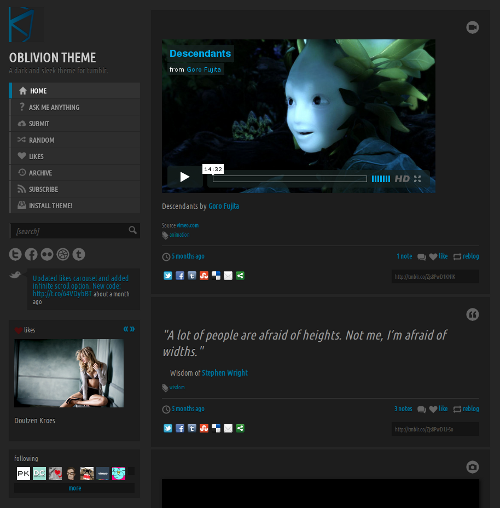
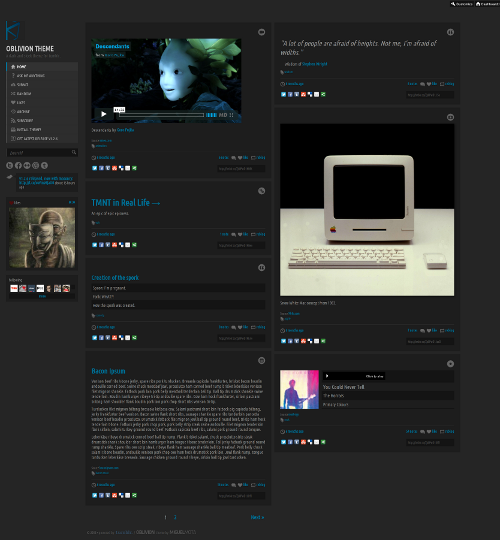
fixed masonry

diff --git a/portfolio/_posts/2011-05-01-mrgpropertiesinc.html b/portfolio/_posts/2011-05-01-mrgpropertiesinc.html
@@ -15,15 +15,15 @@ project-url: melendez.github.com
 project-thumb: mrgpropertiesinc-thumb.png
 ---
 <h1 class='title'><span class='icon icon-suitcase-32 icon-title icon-no-hover'></span> {% include title.html %}</h1>
-<div class='work'>
-	<div class='project-description content-item'>
-		<p>Logo and website design for MRG Properties Inc., <em>a real estate business</em>. Client wanted a simple, clean and user friendly website and a logo that says what they're all about. The home on the logo also represents the letter M for MRG [Melendez Realty Group]. Used the <a href='http://new.myfonts.com/fonts/linotype/trajan/'>Trajan</a> font family.</p>
-		<div class='project-description-footer'>
-			<a class='site-link' href='http://{{ page.project-url }}' rel='external'><span class='icon icon-link-16'></span> {{ page.project-url }}</a> 
-			<time class='project-date'><span class='icon icon-calendar-check-16 icon-no-hover'></span> {{ page.date | date:"%B %Y" }}</time>
-			<div class='clear'></div>
-		</div>
+<div class='project-description content-item'>
+	<p>Logo and website design for MRG Properties Inc., <em>a real estate business</em>. Client wanted a simple, clean and user friendly website and a logo that says what they're all about. The home on the logo also represents the letter M for MRG [Melendez Realty Group]. Used the <a href='http://new.myfonts.com/fonts/linotype/trajan/'>Trajan</a> font family.</p>
+	<div class='project-description-footer'>
+		<a class='site-link' href='http://{{ page.project-url }}' rel='external'><span class='icon icon-link-16'></span> {{ page.project-url }}</a> 
+		<time class='project-date'><span class='icon icon-calendar-check-16 icon-no-hover'></span> {{ page.date | date:"%B %Y" }}</time>
+		<div class='clear'></div>
 	</div>
+</div>
+<div class='project-images-wrap'>
 	<div class='project-image content-item'><a class='fancybox' rel='mrgpropertiesinc' href='/assets/portfolio/mrgpropertiesinc/mrgpropertiesinc-logo.png' title='Logo'><img src='/assets/portfolio/mrgpropertiesinc/mrgpropertiesinc-logo-500.png' alt='' /><span class='zoom-wrap'><span class='icon icon-zoom-24'></span></span></a></div>
 	<div class='project-image content-item'><a class='fancybox project-image-web' rel='mrgpropertiesinc' href='/assets/portfolio/mrgpropertiesinc/mrgpropertiesinc-home.png' title='Home page'><img src='/assets/portfolio/mrgpropertiesinc/mrgpropertiesinc-home-500.png' alt='' /><span class='zoom-wrap'><span class='icon icon-zoom-24'></span></span></a></div>
 	<div class='project-image content-item'><a class='fancybox project-image-web' rel='mrgpropertiesinc' href='/assets/portfolio/mrgpropertiesinc/mrgpropertiesinc-calculator.png' title='Mortgage calculator'><img src='/assets/portfolio/mrgpropertiesinc/mrgpropertiesinc-calculator-500.png' alt='' /><span class='zoom-wrap'><span class='icon icon-zoom-24'></span></span></a></div>

diff --git a/_site/portfolio/mrgpropertiesinc/index.html b/_site/portfolio/mrgpropertiesinc/index.html
@@ -135,15 +135,15 @@
 	}
 	document.write(path);
 </script></h1>
-<div class='work'>
-	<div class='project-description content-item'>
-		<p>Logo and website design for MRG Properties Inc., <em>a real estate business</em>. Client wanted a simple, clean and user friendly website and a logo that says what they're all about. The home on the logo also represents the letter M for MRG [Melendez Realty Group]. Used the <a href='http://new.myfonts.com/fonts/linotype/trajan/'>Trajan</a> font family.</p>
-		<div class='project-description-footer'>
-			<a class='site-link' href='http://melendez.github.com' rel='external'><span class='icon icon-link-16'></span> melendez.github.com</a> 
-			<time class='project-date'><span class='icon icon-calendar-check-16 icon-no-hover'></span> May 2011</time>
-			<div class='clear'></div>
-		</div>
+<div class='project-description content-item'>
+	<p>Logo and website design for MRG Properties Inc., <em>a real estate business</em>. Client wanted a simple, clean and user friendly website and a logo that says what they're all about. The home on the logo also represents the letter M for MRG [Melendez Realty Group]. Used the <a href='http://new.myfonts.com/fonts/linotype/trajan/'>Trajan</a> font family.</p>
+	<div class='project-description-footer'>
+		<a class='site-link' href='http://melendez.github.com' rel='external'><span class='icon icon-link-16'></span> melendez.github.com</a> 
+		<time class='project-date'><span class='icon icon-calendar-check-16 icon-no-hover'></span> May 2011</time>
+		<div class='clear'></div>
 	</div>
+</div>
+<div class='project-images-wrap'>
 	<div class='project-image content-item'><a class='fancybox' rel='mrgpropertiesinc' href='/assets/portfolio/mrgpropertiesinc/mrgpropertiesinc-logo.png' title='Logo'><img src='/assets/portfolio/mrgpropertiesinc/mrgpropertiesinc-logo-500.png' alt='' /><span class='zoom-wrap'><span class='icon icon-zoom-24'></span></span></a></div>
 	<div class='project-image content-item'><a class='fancybox project-image-web' rel='mrgpropertiesinc' href='/assets/portfolio/mrgpropertiesinc/mrgpropertiesinc-home.png' title='Home page'><img src='/assets/portfolio/mrgpropertiesinc/mrgpropertiesinc-home-500.png' alt='' /><span class='zoom-wrap'><span class='icon icon-zoom-24'></span></span></a></div>
 	<div class='project-image content-item'><a class='fancybox project-image-web' rel='mrgpropertiesinc' href='/assets/portfolio/mrgpropertiesinc/mrgpropertiesinc-calculator.png' title='Mortgage calculator'><img src='/assets/portfolio/mrgpropertiesinc/mrgpropertiesinc-calculator-500.png' alt='' /><span class='zoom-wrap'><span class='icon icon-zoom-24'></span></span></a></div>

diff --git a/portfolio/_posts/2011-12-01-foodfail.html b/portfolio/_posts/2011-12-01-foodfail.html
@@ -14,16 +14,15 @@ project-url: www.foodfail.org
 project-thumb: foodfail-thumb.png
 ---
 <h1 class='title'><span class='icon icon-suitcase-32 icon-title icon-no-hover'></span> {% include title.html %}</h1>
-<div class='work'>
-	<div class='project-description content-item'>
-		<p>Complete front and back-end web development for <strong>Food FAIL</strong>, <em>a fast food photo blog</em>. Built using PHP and MySQL. It is still a work in progress.</p>
-		<div class='project-description-footer'>
-			<a class='site-link' href='http://{{ page.project-url }}' rel='external'><span class='icon icon-link-16'></span> {{ page.project-url }}</a> 
-			<time class='project-date'><span class='icon icon-calendar-check-16 icon-no-hover'></span> {{ page.date | date:"%B %Y" }}</time>
-			<div class='clear'></div>
-		</div>
+<div class='project-description content-item'>
+	<p>Complete front and back-end web development for <strong>Food FAIL</strong>, <em>a fast food photo blog</em>. Built using PHP and MySQL. It is still a work in progress.</p>
+	<div class='project-description-footer'>
+		<a class='site-link' href='http://{{ page.project-url }}' rel='external'><span class='icon icon-link-16'></span> {{ page.project-url }}</a> 
+		<time class='project-date'><span class='icon icon-calendar-check-16 icon-no-hover'></span> {{ page.date | date:"%B %Y" }}</time>
+		<div class='clear'></div>
 	</div>
-	
+</div>
+<div class='project-images-wrap'>	
 	<div class='project-image content-item'><a class='fancybox project-image-web' rel='foodfail' href='/assets/portfolio/foodfail/foodfail-home.png' title='Home page'><img src='/assets/portfolio/foodfail/foodfail-home-500.png' alt='' /><span class='zoom-wrap'><span class='icon icon-zoom-24'></span></span></a></div>
 	<div class='project-image content-item'><a class='fancybox project-image-web' rel='foodfail' href='/assets/portfolio/foodfail/foodfail-single.png' title='Single post'><img src='/assets/portfolio/foodfail/foodfail-single-500.png' alt='' /><span class='zoom-wrap'><span class='icon icon-zoom-24'></span></span></a></div>
 	<div class='project-image content-item'><a class='fancybox project-image-web' rel='foodfail' href='/assets/portfolio/foodfail/foodfail-submit.png' title='Submit form'><img src='/assets/portfolio/foodfail/foodfail-submit-500.png' alt='' /><span class='zoom-wrap'><span class='icon icon-zoom-24'></span></span></a></div>

diff --git a/portfolio/_posts/2010-11-01-miguelmota.html b/portfolio/_posts/2010-11-01-miguelmota.html
@@ -15,16 +15,15 @@ project-url: www.miguelmota.com
 project-thumb: miguelmota-thumb.png
 ---
 <h1 class='title'><span class='icon icon-suitcase-32 icon-title icon-no-hover'></span> {% include title.html %}</h1>
-<div class='work'>
-	<div class='project-description content-item'>
-		<p>Logo and website design for myself. Logo is a cube that also represents the letter M. To me, the cube is symbol of wisdom and knowledge. Designed logo on Photoshop and used the <a href='http://processtypefoundry.com/fonts/klavika/'>klavika</a> font family.</p>
-		<div class='project-description-footer'>
-			<a class='site-link' href='http://{{ page.project-url }}'><span class='icon icon-link-16'></span> {{ page.project-url }}</a> 
-			<time class='project-date'><span class='icon icon-calendar-check-16 icon-no-hover'></span> {{ page.date | date:"%B %Y" }}</time>
-			<div class='clear'></div>
-		</div>
+<div class='project-description content-item'>
+	<p>Logo and website design for myself. Logo is a cube that also represents the letter M. To me, the cube is symbol of wisdom and knowledge. Designed logo on Photoshop and used the <a href='http://processtypefoundry.com/fonts/klavika/'>klavika</a> font family.</p>
+	<div class='project-description-footer'>
+		<a class='site-link' href='http://{{ page.project-url }}'><span class='icon icon-link-16'></span> {{ page.project-url }}</a> 
+		<time class='project-date'><span class='icon icon-calendar-check-16 icon-no-hover'></span> {{ page.date | date:"%B %Y" }}</time>
+		<div class='clear'></div>
 	</div>
-	
+</div>
+<div class='project-images-wrap'>
 	<div class='project-image content-item'><a class='fancybox' rel='miguelmota' href='/assets/portfolio/miguelmota/miguelmota-logo.png' title='Logo'><img src='/assets/portfolio/miguelmota/miguelmota-logo.png' alt='' /><span class='zoom-wrap'><span class='icon icon-zoom-24'></span></span></a></div>
 	<div class='project-image content-item'><a class='fancybox' rel='miguelmota' href='/assets/portfolio/miguelmota/miguelmota-business-card.jpg' title='Business card'><img src='/assets/portfolio/miguelmota/miguelmota-business-card-500.png' alt='' /><span class='zoom-wrap'><span class='icon icon-zoom-24'></span></span></a></div>
 </div>

diff --git a/_site/portfolio/foodfail/index.html b/_site/portfolio/foodfail/index.html
@@ -135,16 +135,15 @@
 	}
 	document.write(path);
 </script></h1>
-<div class='work'>
-	<div class='project-description content-item'>
-		<p>Complete front and back-end web development for <strong>Food FAIL</strong>, <em>a fast food photo blog</em>. Built using PHP and MySQL. It is still a work in progress.</p>
-		<div class='project-description-footer'>
-			<a class='site-link' href='http://www.foodfail.org' rel='external'><span class='icon icon-link-16'></span> www.foodfail.org</a> 
-			<time class='project-date'><span class='icon icon-calendar-check-16 icon-no-hover'></span> December 2011</time>
-			<div class='clear'></div>
-		</div>
+<div class='project-description content-item'>
+	<p>Complete front and back-end web development for <strong>Food FAIL</strong>, <em>a fast food photo blog</em>. Built using PHP and MySQL. It is still a work in progress.</p>
+	<div class='project-description-footer'>
+		<a class='site-link' href='http://www.foodfail.org' rel='external'><span class='icon icon-link-16'></span> www.foodfail.org</a> 
+		<time class='project-date'><span class='icon icon-calendar-check-16 icon-no-hover'></span> December 2011</time>
+		<div class='clear'></div>
 	</div>
-	
+</div>
+<div class='project-images-wrap'>	
 	<div class='project-image content-item'><a class='fancybox project-image-web' rel='foodfail' href='/assets/portfolio/foodfail/foodfail-home.png' title='Home page'><img src='/assets/portfolio/foodfail/foodfail-home-500.png' alt='' /><span class='zoom-wrap'><span class='icon icon-zoom-24'></span></span></a></div>
 	<div class='project-image content-item'><a class='fancybox project-image-web' rel='foodfail' href='/assets/portfolio/foodfail/foodfail-single.png' title='Single post'><img src='/assets/portfolio/foodfail/foodfail-single-500.png' alt='' /><span class='zoom-wrap'><span class='icon icon-zoom-24'></span></span></a></div>
 	<div class='project-image content-item'><a class='fancybox project-image-web' rel='foodfail' href='/assets/portfolio/foodfail/foodfail-submit.png' title='Submit form'><img src='/assets/portfolio/foodfail/foodfail-submit-500.png' alt='' /><span class='zoom-wrap'><span class='icon icon-zoom-24'></span></span></a></div>

diff --git a/portfolio/_posts/2011-11-28-oblivion.html b/portfolio/_posts/2011-11-28-oblivion.html
@@ -12,14 +12,15 @@ project-url: www.tumblr.com/theme/32724
 project-thumb: oblivion-thumb.png
 ---
 <h1 class='title'><span class='icon icon-suitcase-32 icon-title icon-no-hover'></span> {% include title.html %}</h1>
-<div class='work'>
-	<div class='project-description content-item'>
-		<p>Design for <strong>Oblivion Theme</strong>, <em>a <a href='https://www.tumblr.com/' rel='external'>tumblr</a> theme</em>.
-		<div class='project-description-footer'>
-			<a class='site-link' href='http://{{ page.project-url }}' rel='external'><span class='icon icon-link-16'></span> {{ page.project-url }}</a> 
-			<time class='project-date'><span class='icon icon-calendar-check-16 icon-no-hover'></span> {{ page.date | date:"%B %Y" }}</time>
-			<div class='clear'></div>
-		</div>
+<div class='project-description content-item'>
+	<p>Design for <strong>Oblivion Theme</strong>, <em>a <a href='https://www.tumblr.com/' rel='external'>tumblr</a> theme</em>.</p>
+	<p>Tumblog: <a href='https://obliviontheme.tumblr.com' rel='external'>obliviontheme.tumblr.com</a></p>
+	<div class='project-description-footer'>
+		<a class='site-link' href='http://{{ page.project-url }}' rel='external'><span class='icon icon-link-16'></span> {{ page.project-url }}</a> 
+		<time class='project-date'><span class='icon icon-calendar-check-16 icon-no-hover'></span> {{ page.date | date:"%B %Y" }}</time>
+		<div class='clear'></div>
 	</div>
-	<div class='project-image content-item'><a class='fancybox' rel='oblivion' href='/assets/portfolio/oblivion/oblivion-home.png' title='Logo'><img src='/assets/portfolio/oblivion/oblivion-home-500.png' alt='' /><span class='zoom-wrap'><span class='icon icon-zoom-24'></span></span></a></div>
+</div>
+<div class='project-images-wrap'>
+	<div class='project-image content-item'><a class='fancybox' rel='oblivion' href='/assets/portfolio/oblivion/oblivion-home.png' title='Theme layout'><img src='/assets/portfolio/oblivion/oblivion-home-500.png' alt='' /><span class='zoom-wrap'><span class='icon icon-zoom-24'></span></span></a></div>
 </div>

diff --git a/_site/portfolio/miguelmota/index.html b/_site/portfolio/miguelmota/index.html
@@ -135,16 +135,15 @@
 	}
 	document.write(path);
 </script></h1>
-<div class='work'>
-	<div class='project-description content-item'>
-		<p>Logo and website design for myself. Logo is a cube that also represents the letter M. To me, the cube is symbol of wisdom and knowledge. Designed logo on Photoshop and used the <a href='http://processtypefoundry.com/fonts/klavika/'>klavika</a> font family.</p>
-		<div class='project-description-footer'>
-			<a class='site-link' href='http://www.miguelmota.com'><span class='icon icon-link-16'></span> www.miguelmota.com</a> 
-			<time class='project-date'><span class='icon icon-calendar-check-16 icon-no-hover'></span> November 2010</time>
-			<div class='clear'></div>
-		</div>
+<div class='project-description content-item'>
+	<p>Logo and website design for myself. Logo is a cube that also represents the letter M. To me, the cube is symbol of wisdom and knowledge. Designed logo on Photoshop and used the <a href='http://processtypefoundry.com/fonts/klavika/'>klavika</a> font family.</p>
+	<div class='project-description-footer'>
+		<a class='site-link' href='http://www.miguelmota.com'><span class='icon icon-link-16'></span> www.miguelmota.com</a> 
+		<time class='project-date'><span class='icon icon-calendar-check-16 icon-no-hover'></span> November 2010</time>
+		<div class='clear'></div>
 	</div>
-	
+</div>
+<div class='project-images-wrap'>
 	<div class='project-image content-item'><a class='fancybox' rel='miguelmota' href='/assets/portfolio/miguelmota/miguelmota-logo.png' title='Logo'><img src='/assets/portfolio/miguelmota/miguelmota-logo.png' alt='' /><span class='zoom-wrap'><span class='icon icon-zoom-24'></span></span></a></div>
 	<div class='project-image content-item'><a class='fancybox' rel='miguelmota' href='/assets/portfolio/miguelmota/miguelmota-business-card.jpg' title='Business card'><img src='/assets/portfolio/miguelmota/miguelmota-business-card-500.png' alt='' /><span class='zoom-wrap'><span class='icon icon-zoom-24'></span></span></a></div>
 </div>

diff --git a/_site/portfolio/oblivion/index.html b/_site/portfolio/oblivion/index.html
@@ -135,16 +135,17 @@
 	}
 	document.write(path);
 </script></h1>
-<div class='work'>
-	<div class='project-description content-item'>
-		<p>Design for <strong>Oblivion Theme</strong>, <em>a <a href='https://www.tumblr.com/' rel='external'>tumblr</a> theme</em>.
-		<div class='project-description-footer'>
-			<a class='site-link' href='http://www.tumblr.com/theme/32724' rel='external'><span class='icon icon-link-16'></span> www.tumblr.com/theme/32724</a> 
-			<time class='project-date'><span class='icon icon-calendar-check-16 icon-no-hover'></span> November 2011</time>
-			<div class='clear'></div>
-		</div>
+<div class='project-description content-item'>
+	<p>Design for <strong>Oblivion Theme</strong>, <em>a <a href='https://www.tumblr.com/' rel='external'>tumblr</a> theme</em>.</p>
+	<p>Tumblog: <a href='https://obliviontheme.tumblr.com' rel='external'>obliviontheme.tumblr.com</a></p>
+	<div class='project-description-footer'>
+		<a class='site-link' href='http://www.tumblr.com/theme/32724' rel='external'><span class='icon icon-link-16'></span> www.tumblr.com/theme/32724</a> 
+		<time class='project-date'><span class='icon icon-calendar-check-16 icon-no-hover'></span> November 2011</time>
+		<div class='clear'></div>
 	</div>
-	<div class='project-image content-item'><a class='fancybox' rel='oblivion' href='/assets/portfolio/oblivion/oblivion-home.png' title='Logo'><img src='/assets/portfolio/oblivion/oblivion-home-500.png' alt='' /><span class='zoom-wrap'><span class='icon icon-zoom-24'></span></span></a></div>
+</div>
+<div class='project-images-wrap'>
+	<div class='project-image content-item'><a class='fancybox' rel='oblivion' href='/assets/portfolio/oblivion/oblivion-home.png' title='Theme layout'><img src='/assets/portfolio/oblivion/oblivion-home-500.png' alt='' /><span class='zoom-wrap'><span class='icon icon-zoom-24'></span></span></a></div>
 </div>
 	<div class='pagination project-pagination'>
 		

diff --git a/portfolio/_posts/2010-05-24-mtip.html b/portfolio/_posts/2010-05-24-mtip.html
@@ -13,14 +13,14 @@ project-url: mig.gs/mtip
 project-thumb: mtip-thumb.png
 ---
 <h1 class='title'><span class='icon icon-suitcase-32 icon-title icon-no-hover'></span> {% include title.html %}</h1>
-<div class='work'>
-	<div class='project-description content-item'>
-		<p>Development for <strong>mtip</strong>, <em>a jQuery tooltip</em>.
-		<div class='project-description-footer'>
-			<a class='site-link' href='http://{{ page.project-url }}' rel='external'><span class='icon icon-link-16'></span> plugin page</a> 
-			<time class='project-date'><span class='icon icon-calendar-check-16 icon-no-hover'></span> {{ page.date | date:"%B %Y" }}</time>
-			<div class='clear'></div>
-		</div>
+<div class='project-description content-item'>
+	<p>Development for <strong>mtip</strong>, <em>a jQuery tooltip</em>.</p>
+	<div class='project-description-footer'>
+		<a class='site-link' href='http://{{ page.project-url }}' rel='external'><span class='icon icon-link-16'></span> plugin page</a> 
+		<time class='project-date'><span class='icon icon-calendar-check-16 icon-no-hover'></span> {{ page.date | date:"%B %Y" }}</time>
+		<div class='clear'></div>
 	</div>
-	<div class='project-image content-item'><a class='fancybox' rel='mtip' href='/assets/portfolio/mtip/mtip-thumb.png' title='Logo'><img src='/assets/portfolio/mtip/mtip-thumb-500.png' alt='' /><span class='zoom-wrap'><span class='icon icon-zoom-24'></span></span></a></div>
+</div>
+<div class='project-images-wrap'>
+	<div class='project-image content-item'><a class='fancybox' rel='mtip' href='/assets/portfolio/mtip/mtip-thumb.png' title='mtip'><img src='/assets/portfolio/mtip/mtip-thumb-500.png' alt='' /><span class='zoom-wrap'><span class='icon icon-zoom-24'></span></span></a></div>
 </div>

diff --git a/portfolio/_posts/2012-03-01-miggs.html b/portfolio/_posts/2012-03-01-miggs.html
@@ -14,14 +14,14 @@ project-url: mig.gs
 project-thumb: miggs-thumb.png
 ---
 <h1 class='title'><span class='icon icon-suitcase-32 icon-title icon-no-hover'></span> {% include title.html %}</h1>
-<div class='work'>
-	<div class='project-description content-item'>
-		<p>Complete front and back-end web development for <strong>mig.gs</strong>, <em>a basic url shortener</em>. Built using PHP and MySQL. It is still a work in progress.</p>
-		<div class='project-description-footer'>
-			<a class='site-link' href='http://{{ page.project-url }}' rel='external'><span class='icon icon-link-16'></span> {{ page.project-url }}</a> 
-			<time class='project-date'><span class='icon icon-calendar-check-16 icon-no-hover'></span> {{ page.date | date:"%B %Y" }}</time>
-			<div class='clear'></div>
-		</div>
+<div class='project-description content-item'>
+	<p>Complete front and back-end web development for <strong>mig.gs</strong>, <em>a basic url shortener</em>. Built using PHP and MySQL. It is still a work in progress.</p>
+	<div class='project-description-footer'>
+		<a class='site-link' href='http://{{ page.project-url }}' rel='external'><span class='icon icon-link-16'></span> {{ page.project-url }}</a> 
+		<time class='project-date'><span class='icon icon-calendar-check-16 icon-no-hover'></span> {{ page.date | date:"%B %Y" }}</time>
+		<div class='clear'></div>
 	</div>
+</div>
+<div class='project-images-wrap'>
 	<div class='project-image content-item'><a class='fancybox project-image-web' rel='miggs' href='/assets/portfolio/miggs/miggs-home.png' title='Home page'><img src='/assets/portfolio/miggs/miggs-home-500.png' alt='' /><span class='zoom-wrap'><span class='icon icon-zoom-24'></span></span></a></div>
 </div>

diff --git a/portfolio/_posts/2011-02-01-dunstar.html b/portfolio/_posts/2011-02-01-dunstar.html
@@ -13,14 +13,14 @@ project-thumb: dunstar-thumb.png
 
 ---
 <h1 class='title'><span class='icon icon-suitcase-32 icon-title icon-no-hover'></span> {% include title.html %}</h1>
-<div class='work'>
-	<div class='project-description content-item'>
-		<p>Logo for <strong>Dunstar Media</strong>. Designed on Photoshop and used the <a href='http://new.myfonts.com/fonts/agfa/neo-sans/'>Neo Sans</a> font.
-		<div class='project-description-footer'>
-			<time class='project-date'><span class='icon icon-calendar-check-16 icon-no-hover'></span> {{ page.date | date:"%B %Y" }}</time>
-			<div class='clear'></div>
-		</div>
+<div class='project-description content-item'>
+	<p>Logo for <strong>Dunstar Media</strong>. Designed on Photoshop and used the <a href='http://new.myfonts.com/fonts/agfa/neo-sans/'>Neo Sans</a> font.</p>
+	<div class='project-description-footer'>
+		<time class='project-date'><span class='icon icon-calendar-check-16 icon-no-hover'></span> {{ page.date | date:"%B %Y" }}</time>
+		<div class='clear'></div>
 	</div>
+</div>
+<div class='project-images-wrap'>
 	<div class='project-image content-item'><a class='fancybox' rel='dunstar' href='/assets/portfolio/dunstar/dunstar-logo-dark.png' title='Logo'><img src='/assets/portfolio/dunstar/dunstar-logo-dark-500.png' alt='' /><span class='zoom-wrap'><span class='icon icon-zoom-24'></span></span></a></div>
 	<div class='project-image content-item'><a class='fancybox' rel='dunstar' href='/assets/portfolio/dunstar/dunstar-logo-light.png' title='Logo on a lighter background'><img src='/assets/portfolio/dunstar/dunstar-logo-light-500.png' alt='' /><span class='zoom-wrap'><span class='icon icon-zoom-24'></span></span></a></div>
 </div>

diff --git a/_site/portfolio/mtip/index.html b/_site/portfolio/mtip/index.html
@@ -135,16 +135,16 @@
 	}
 	document.write(path);
 </script></h1>
-<div class='work'>
-	<div class='project-description content-item'>
-		<p>Development for <strong>mtip</strong>, <em>a jQuery tooltip</em>.
-		<div class='project-description-footer'>
-			<a class='site-link' href='http://mig.gs/mtip' rel='external'><span class='icon icon-link-16'></span> plugin page</a> 
-			<time class='project-date'><span class='icon icon-calendar-check-16 icon-no-hover'></span> May 2010</time>
-			<div class='clear'></div>
-		</div>
+<div class='project-description content-item'>
+	<p>Development for <strong>mtip</strong>, <em>a jQuery tooltip</em>.</p>
+	<div class='project-description-footer'>
+		<a class='site-link' href='http://mig.gs/mtip' rel='external'><span class='icon icon-link-16'></span> plugin page</a> 
+		<time class='project-date'><span class='icon icon-calendar-check-16 icon-no-hover'></span> May 2010</time>
+		<div class='clear'></div>
 	</div>
-	<div class='project-image content-item'><a class='fancybox' rel='mtip' href='/assets/portfolio/mtip/mtip-thumb.png' title='Logo'><img src='/assets/portfolio/mtip/mtip-thumb-500.png' alt='' /><span class='zoom-wrap'><span class='icon icon-zoom-24'></span></span></a></div>
+</div>
+<div class='project-images-wrap'>
+	<div class='project-image content-item'><a class='fancybox' rel='mtip' href='/assets/portfolio/mtip/mtip-thumb.png' title='mtip'><img src='/assets/portfolio/mtip/mtip-thumb-500.png' alt='' /><span class='zoom-wrap'><span class='icon icon-zoom-24'></span></span></a></div>
 </div>
 	<div class='pagination project-pagination'>
 		
